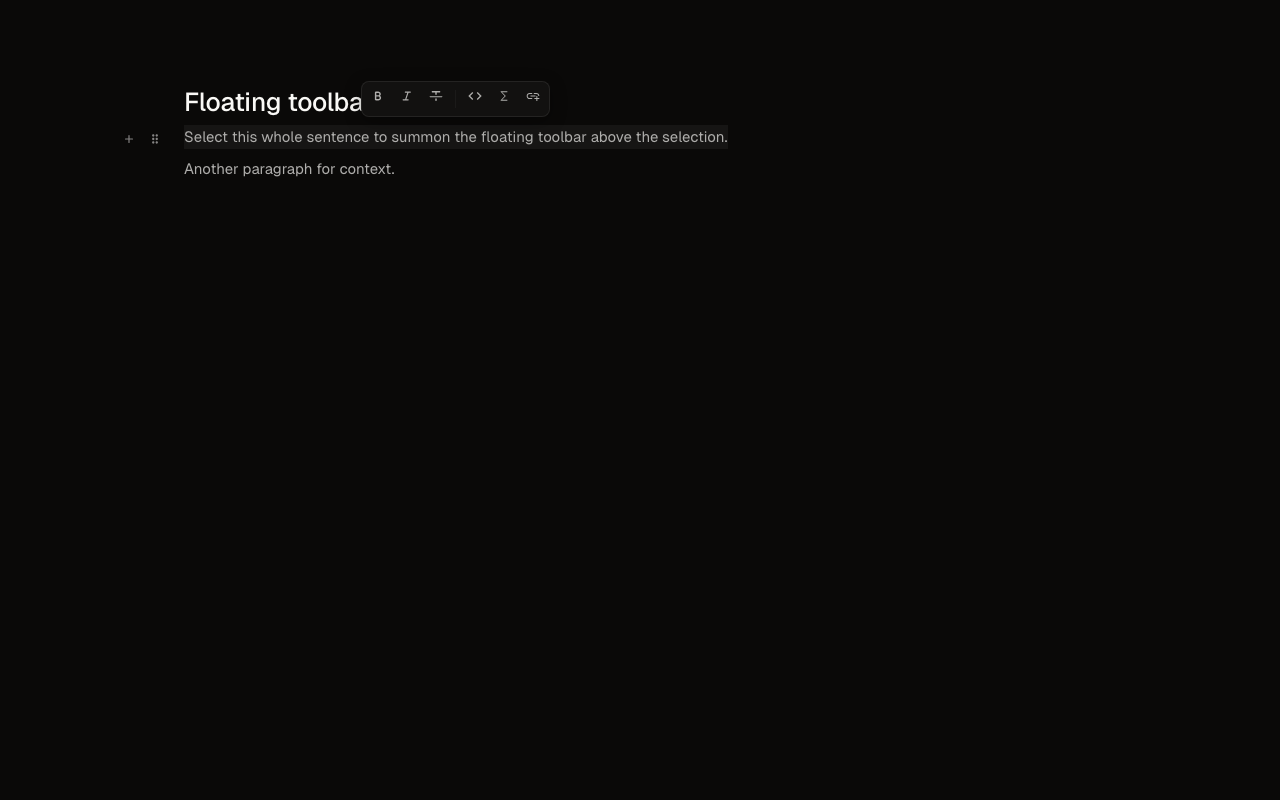
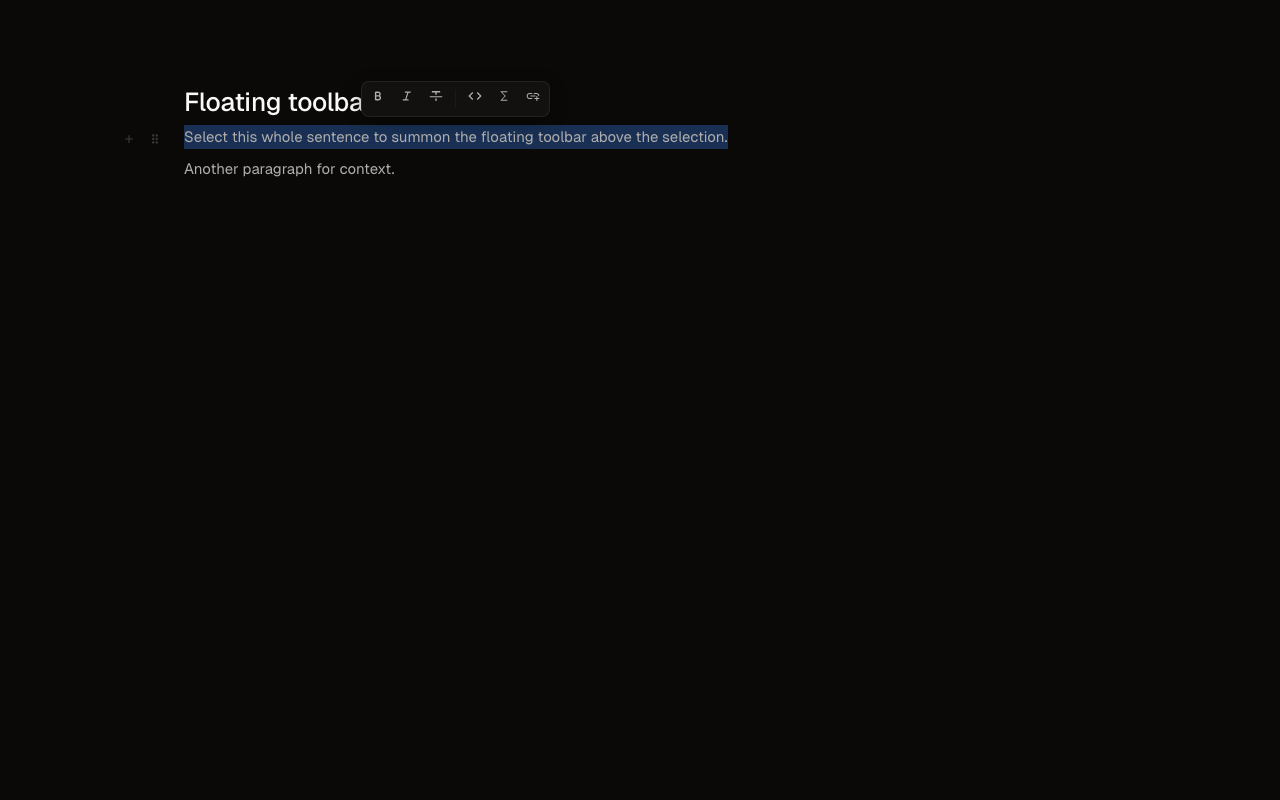
fix(visual): block handle opacity progressive (Linear/Notion-style)
Crepe ships the block handle (+ / ⋮⋮ on the left gutter) at full opacity
the moment data-show flips true. On a calm warm-dark canvas it reads
as shouty UI clutter. Pattern Linear / Notion: present but quiet,
fully visible only on direct hover.

Implement: 0.4 opacity at data-show=true, 1.0 on hover, 0.15s ease.
Both `+` (insert + open slash menu) and `⋮⋮` (drag-reorder) remain
fully functional — Option A (keep, refine) per Matheo's call.

Updated baselines for all 9 visual specs to reflect the latest visuals
(grayscale tier, text selection, task list, subtle block handle).

Changed region(s): [[0.125, 0.1562, 0.5938, 0.1875]]

diff --git a/src/app.css b/src/app.css
@@ -513,7 +513,22 @@ samp {
 	fill: var(--color-accent);
 }
 
-/* Block handle (drag handle that appears on the gutter) */
+/* Block handle (the +/⋮⋮ pair that appears on the left gutter at hover).
+ * Crepe makes it fully visible the moment data-show="true", which feels
+ * shouty against the warm-dark canvas. Pattern Linear / Notion: present
+ * but quiet, only fully visible when the user hovers it directly. */
+.milkdown.milkdown .milkdown-block-handle {
+	transition: opacity 0.15s ease;
+}
+
+.milkdown.milkdown .milkdown-block-handle[data-show='true'] {
+	opacity: 0.4;
+}
+
+.milkdown.milkdown .milkdown-block-handle[data-show='true']:hover {
+	opacity: 1;
+}
+
 .milkdown.milkdown .milkdown-block-handle .operation-item {
 	width: 24px;
 	height: 24px;